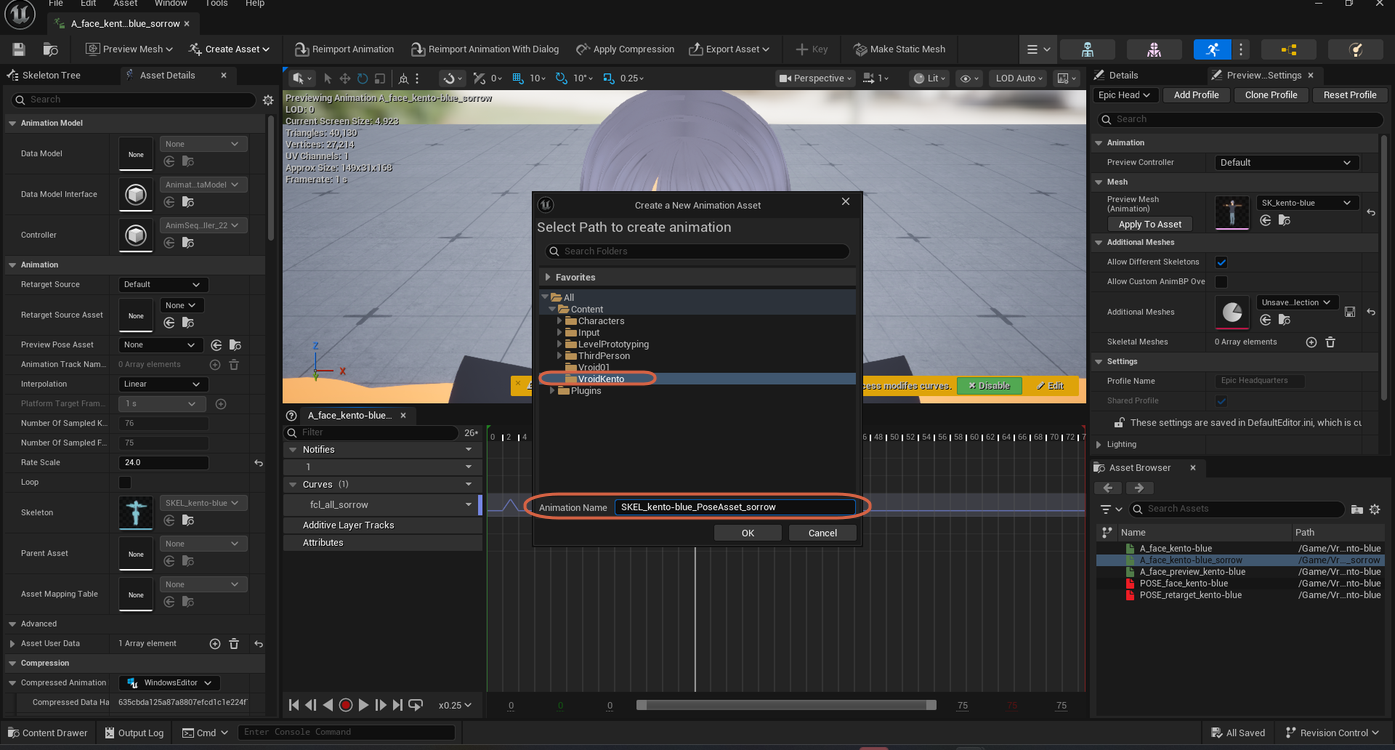
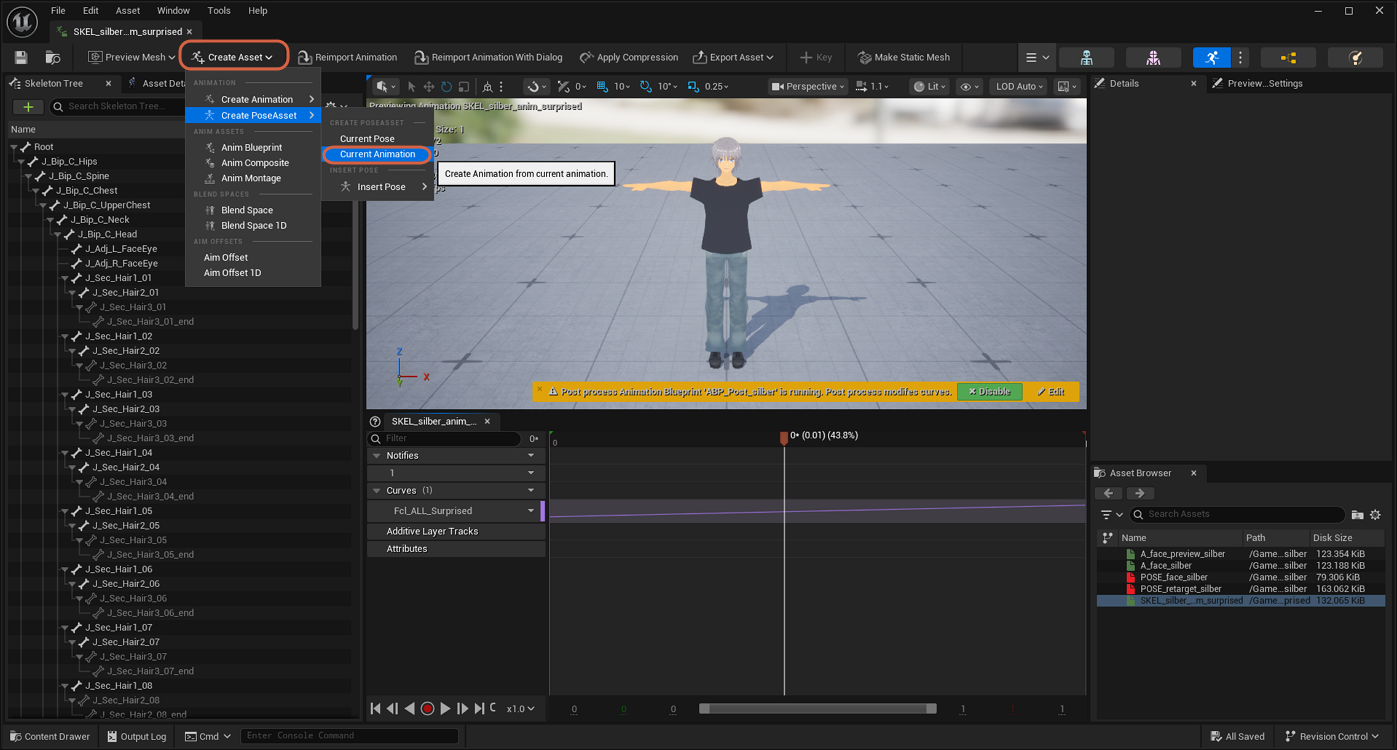
Replace pose-asset guide with a cleaner two-key example
The old example created a Pose Asset from a densely-sampled
animation, producing 76 poses to clean up. The new example builds
on the two-keyed animation from "Creating an Animation from a Pose",
producing exactly two poses (0 and 1), making the workflow much
clearer. Adjust the isolate-single-pose guide to frame the
many-poses case as the densely-sampled scenario, not the default.

diff --git a/src/docs/en/desktop/ue/create-pose-asset-from-animation.md b/src/docs/en/desktop/ue/create-pose-asset-from-animation.md
@@ -2,26 +2,48 @@
 
 > **Note:** This document was generated by Claude Code and has not been reviewed by a human. Please use it as a reference only.
 
-A `Pose Asset` can be generated directly from an already-open `Animation Sequence`, instead of building one from scratch. This example uses `A_face_kento-blue_sorrow`, a single-curve animation holding one facial expression.
+A `Pose Asset` can be generated directly from an already-open `Animation Sequence` using **Current Animation**, instead of building one from scratch. This example uses `SKEL_silber_anim_surprised`, the two-keyed animation built in [Creating an Animation from a Pose](create-animation-from-pose.md) — because that source animation has only two keys (a start key at `0` and an end key at `1`), **Current Animation** produces exactly two poses to clean up here, not one per every sampled frame.
 
-> **Note:** See [Creating an Animation from a Pose](create-animation-from-pose.md) for how to build a single-expression source animation like this one from scratch.
+## Step 1: Open the Source Animation
 
-## Step 1: Open the Create Asset Menu
+In the Content Browser, open the source `Animation Sequence` — here, `SKEL_silber_anim_surprised`.
 
-With the animation open, click **Create Asset** in the toolbar, then open the **Create PoseAsset** flyout. It offers two options under **CREATE POSEASSET** — **Current Pose** and **Current Animation** — plus a separate **Insert Pose** option under **INSERT POSE**.
+![Content Browser showing the VroidSilber folder with SKEL_silber_anim_surprised selected](img/create-pose-asset-from-animation-01.png)
 
-![Create Asset dropdown menu open on an Animation Sequence, with Create PoseAsset highlighted and its Current Pose and Current Animation options visible](img/create-pose-asset-from-animation-01.png)
+## Step 2: Create the Pose Asset
 
-Select **Current Animation** ("Create Animation from current animation") rather than **Current Pose**, which would only capture whatever single frame the playhead was on.
+Click **Create Asset** → **Create PoseAsset**, then select **Current Animation** ("Create Animation from current animation") rather than **Current Pose**, which would only capture whatever single frame the playhead was on.
 
-## Step 2: Choose a Destination and Name
+![Create Asset menu open with Create PoseAsset's Current Animation option highlighted and its tooltip visible](img/create-pose-asset-from-animation-02.png)
 
-A **Create a New Animation Asset** dialog opens, prompting you to select a destination folder and confirm a name for the new Pose Asset. The screenshot shows the `VroidKento` folder selected and the name field pre-filled as `SKEL_kento-blue_PoseAsset_sorrow`.
+## Step 3: Name and Create the Asset
 
-![Create a New Animation Asset dialog with the VroidKento folder selected and the Animation Name field showing SKEL_kento-blue_PoseAsset_sorrow](img/create-pose-asset-from-animation-02.png)
+A **Create a New Animation Asset** dialog opens, prompting you to select a destination folder and confirm a name. The screenshot shows the `VroidSilber` folder selected and the name field pre-filled as `SKEL_silber_Pose_surprised`. Click **OK**.
 
-Click **OK** to create the Pose Asset in that folder.
+![Create a New Animation Asset dialog with the VroidSilber folder selected and the Animation Name field showing SKEL_silber_Pose_surprised](img/create-pose-asset-from-animation-03.png)
 
-> **Warning:** **Current Animation** creates one pose per sampled frame of the source animation, not a single named pose — a 75-frame clip produces 76 poses (`Pose_0` through `Pose_75`). See [Isolating a Single Pose in a Pose Asset](isolate-single-pose.md) to clean this up.
+## Step 4: Check the Generated Poses
 
-> **Note:** A Pose Asset created this way only reflects the curve values baked into the source animation at the time you ran this command. To learn how a Pose Asset's per-pose **Weight** slider differs from those baked values, see [Understanding Pose Weights vs. Curve Values](understand-pose-weights-vs-curves.md).
+The new Pose Asset opens automatically, with one pose per key in the source animation — `Pose_0` and `Pose_1`. Select `Pose_0` and check its value in the curve list on the right: it reads `0.000000`, matching the animation's start key.
+
+![Pose_0 selected, with the curve list on the right showing Fcl_ALL_Surprised at 0.000000](img/create-pose-asset-from-animation-04.png)
+
+> **Note:** If your source animation has many sampled frames instead of just a couple of hand-placed keys, **Current Animation** generates one pose per frame instead of two — see [Isolating a Single Pose in a Pose Asset](isolate-single-pose.md) for cleaning up that larger case.
+
+## Step 5: Delete the Unwanted Pose
+
+Right-click `Pose_0` (the `0.000000` pose) and select **Delete**.
+
+![Right-click menu on Pose_0 with Delete highlighted, tooltip reading Delete the selected pose(s)](img/create-pose-asset-from-animation-05.png)
+
+## Step 6: Rename the Remaining Pose
+
+Only `Pose_1` remains, holding the curve's `1.000000` value. Right-click it, select **Rename**, and give it a meaningful name — for example, `Surprised`.
+
+![Pose_1 selected showing Fcl_ALL_Surprised at 1.000000, with its right-click menu open and Rename highlighted](img/create-pose-asset-from-animation-06.png)
+
+## Step 7: Check the Final Pose
+
+Change the pose's **Weight** slider to confirm it blends correctly — setting it to `0.5` here shows the expression at half strength.
+
+![Renamed Surprised pose with its Weight set to 0.5, showing the character's expression at half strength](img/create-pose-asset-from-animation-07.png)

diff --git a/src/docs/en/desktop/ue/isolate-single-pose.md b/src/docs/en/desktop/ue/isolate-single-pose.md
@@ -2,7 +2,7 @@
 
 > **Note:** This document was generated by Claude Code and has not been reviewed by a human. Please use it as a reference only.
 
-[Creating a Pose Asset from an Animation Sequence](create-pose-asset-from-animation.md) using **Current Animation** generates one pose per sampled frame of the source animation — 76 poses (`Pose_0` through `Pose_75`) for a 75-frame clip, not the single named pose you usually want. Clean this up by deleting the poses you don't need and renaming the one you're keeping.
+[Creating a Pose Asset from an Animation Sequence](create-pose-asset-from-animation.md) using **Current Animation** generates one pose per key in the source animation. A hand-keyed animation with just a start and end key produces two poses, easy to clean up — but a densely-sampled animation produces one pose per frame instead: 76 poses (`Pose_0` through `Pose_75`) for a 75-frame clip, not the single named pose you usually want. Clean this up by deleting the poses you don't need and renaming the one you're keeping.
 
 ## Step 1: Find the Frame with the Curve Value You Want
 
